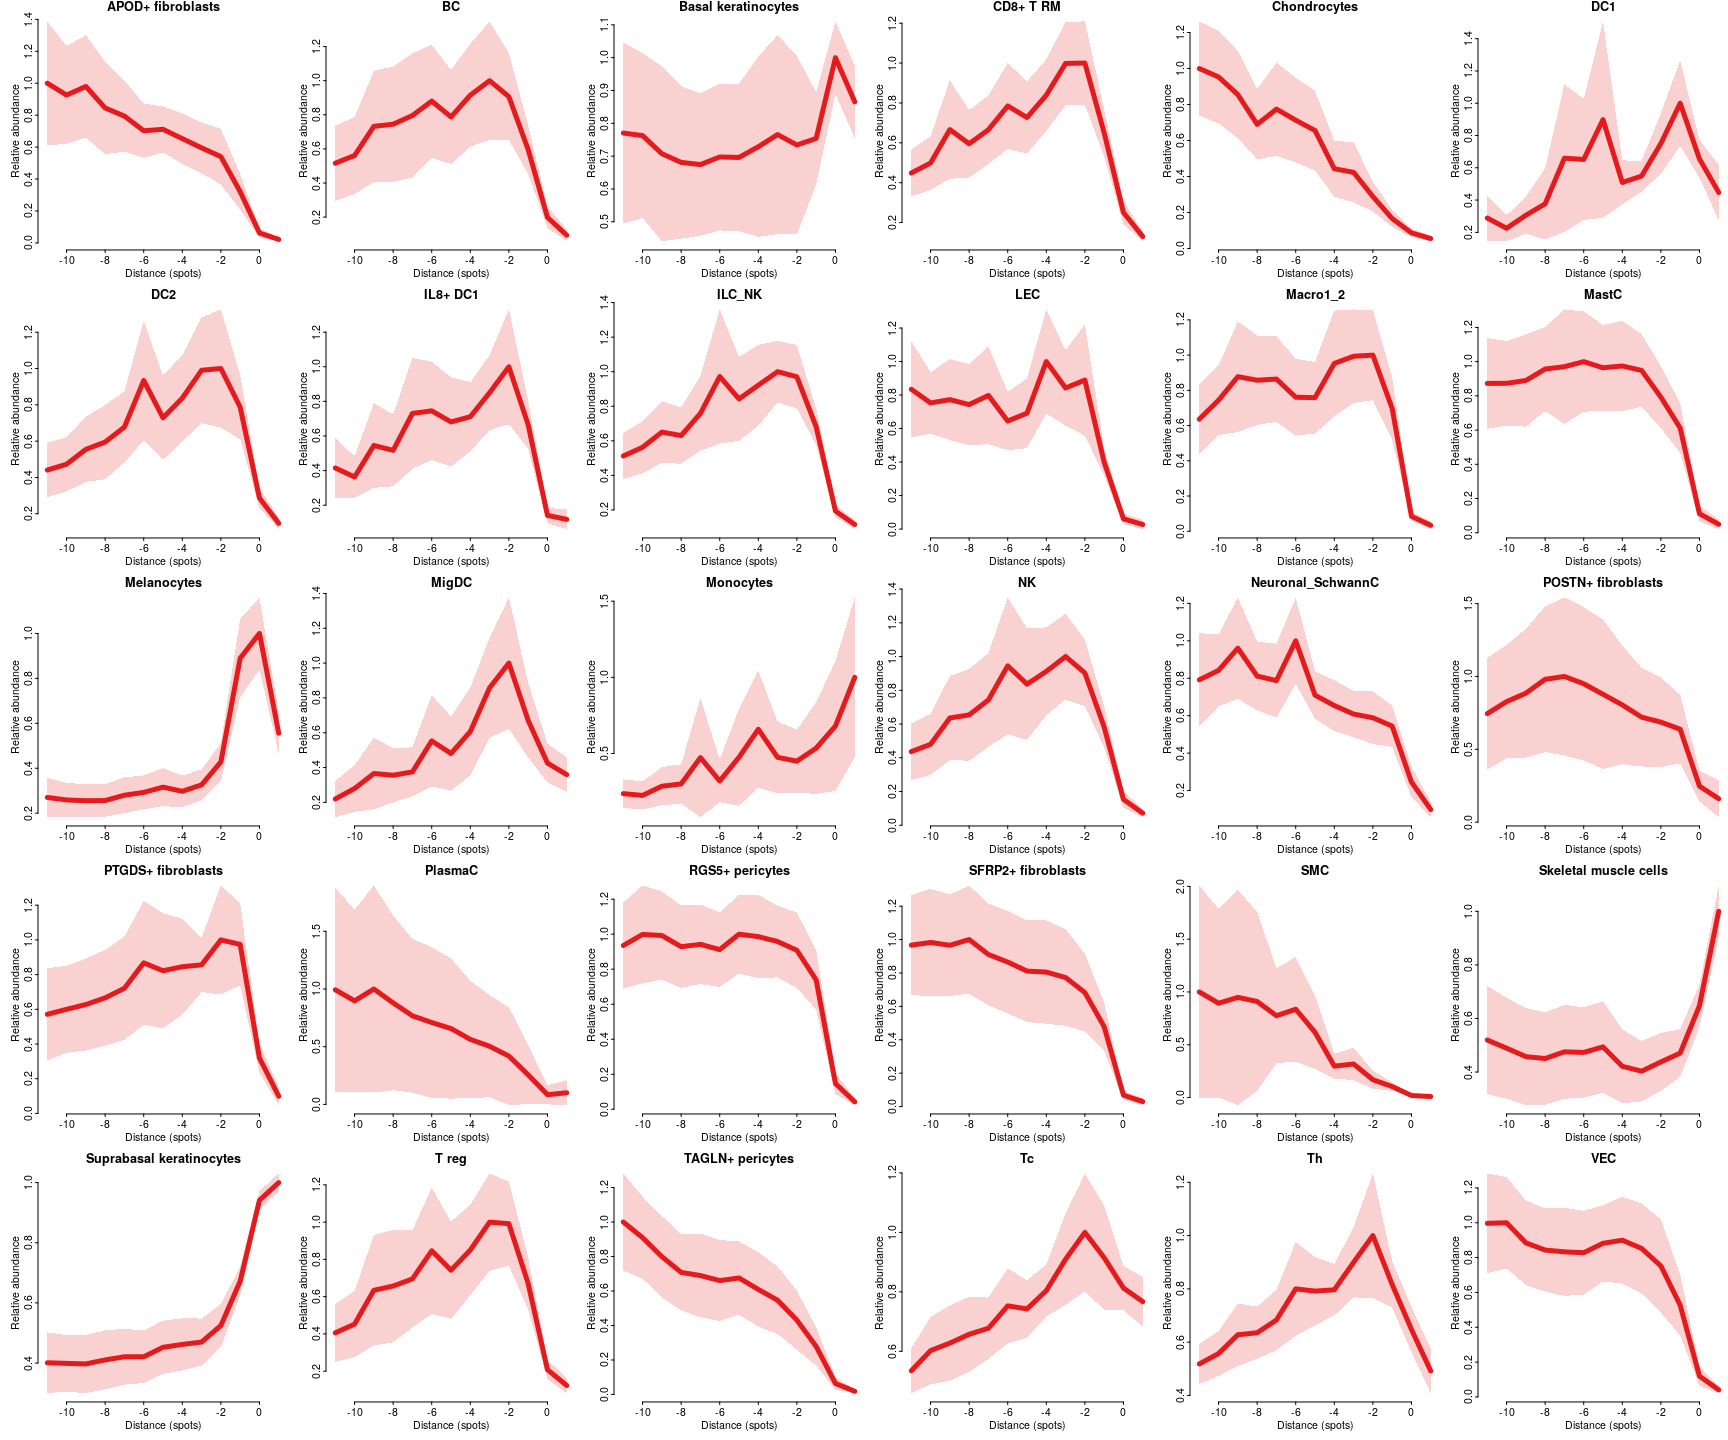
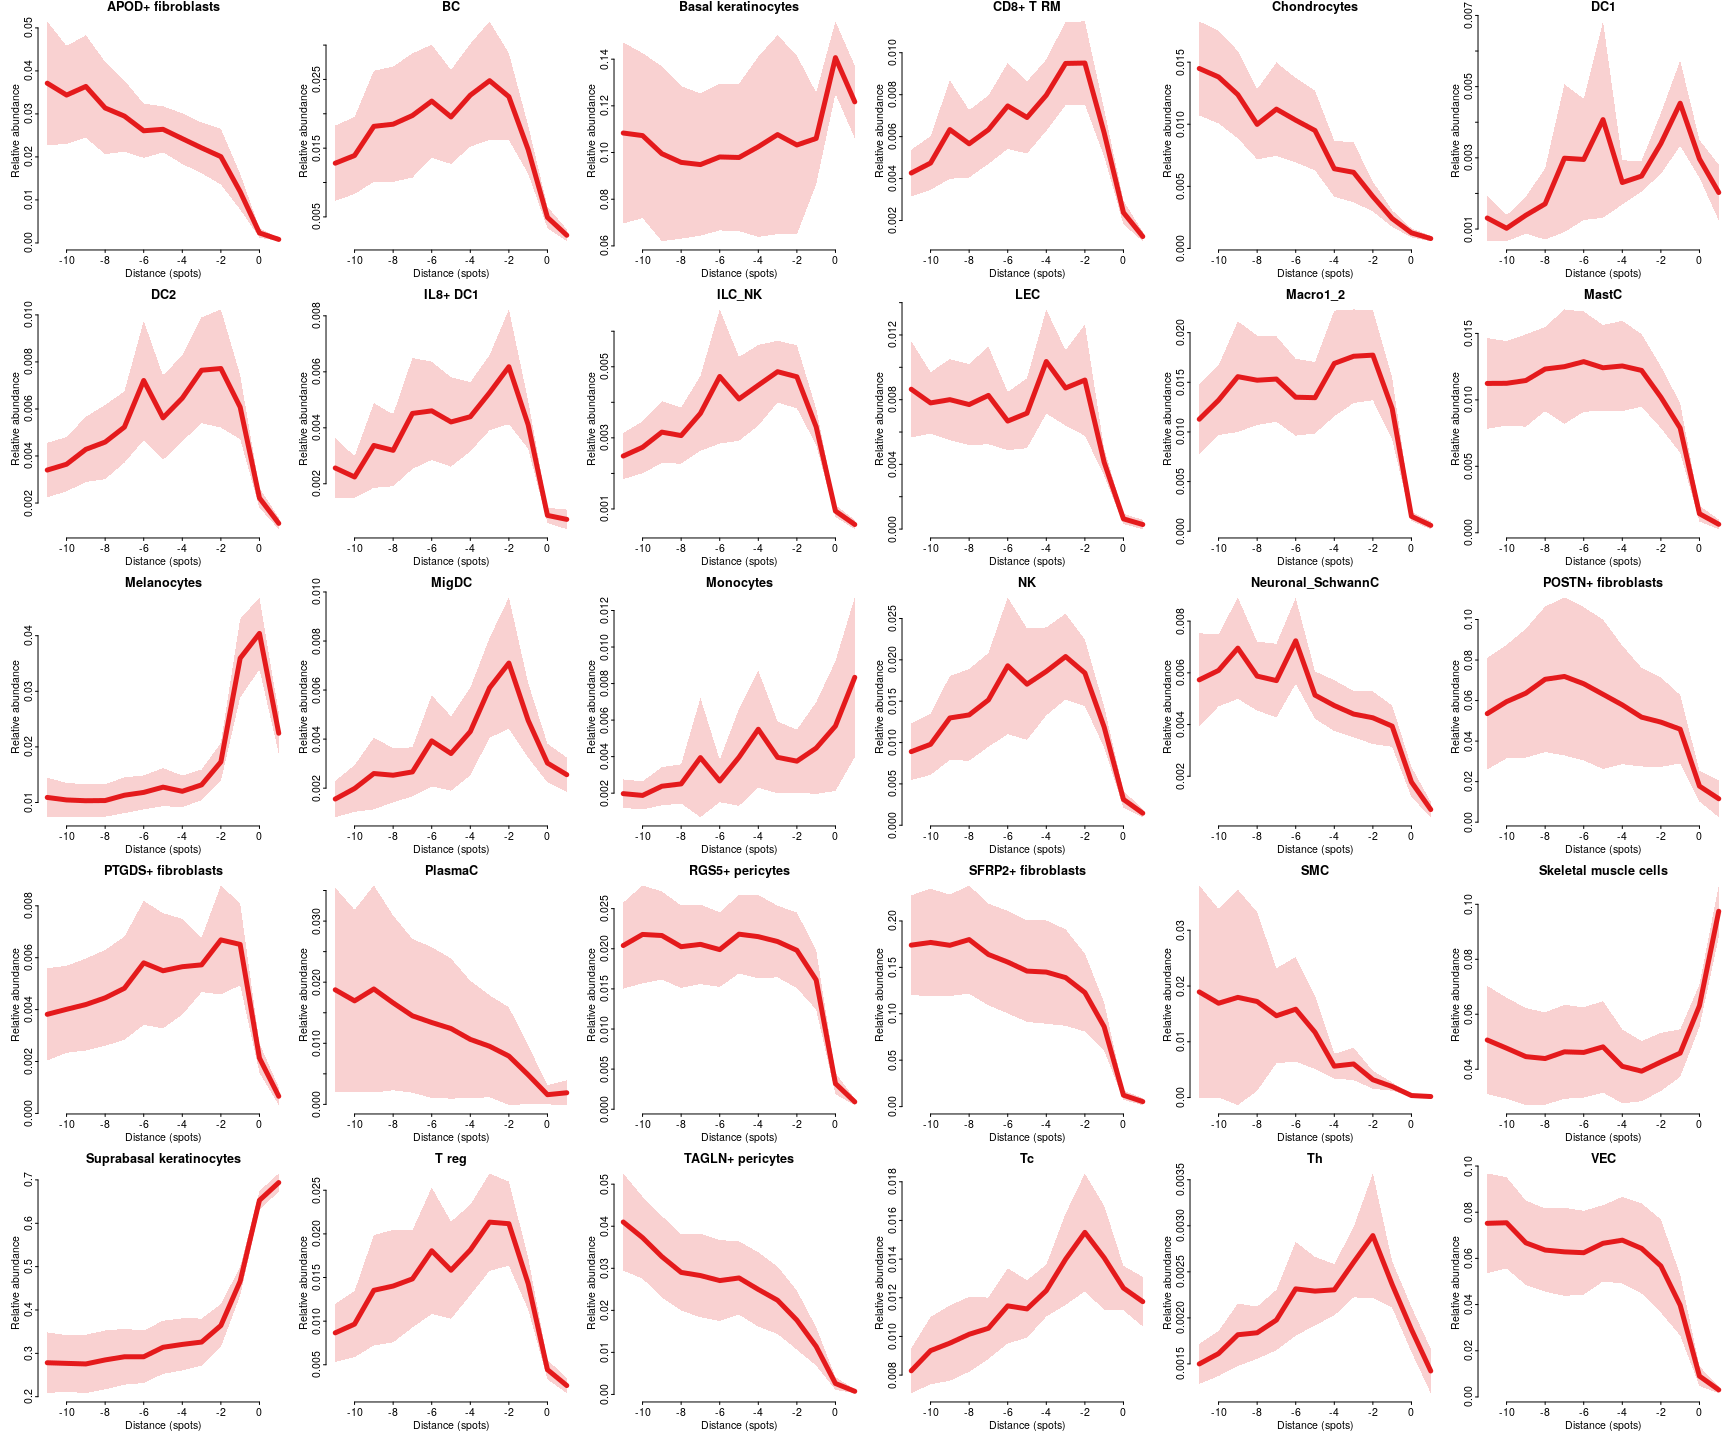
update vignette

diff --git a/vignettes/TissueInDepth.md b/vignettes/TissueInDepth.md
@@ -11,12 +11,12 @@ Tissue in depth
     - [Celltype distribution across all
       dataset](#celltype-distribution-across-all-dataset)
     - [Compare body vs face](#compare-body-vs-face)
-    - [Visualaze results](#visualaze-results)
+    - [Visualize results](#visualize-results)
   - [Gene expression](#gene-expression)
     - [Select genes to work with](#select-genes-to-work-with)
     - [Prepare summary matrix](#prepare-summary-matrix-1)
     - [Compare body vs face](#compare-body-vs-face-1)
-    - [Visualaze results](#visualaze-results-1)
+    - [Visualize results](#visualize-results-1)
 
 ``` r
 # install packages if necessary
@@ -34,9 +34,6 @@ library(Seurat)
 #> 'SeuratObject' was built under R 4.3.0 but the current version is
 #> 4.3.1; it is recomended that you reinstall 'SeuratObject' as the ABI
 #> for R may have changed
-#> 'SeuratObject' was built with package 'Matrix' 1.6.3 but the current
-#> version is 1.6.4; it is recomended that you reinstall 'SeuratObject' as
-#> the ABI for 'Matrix' may have changed
 #> 
 #> Attaching package: 'SeuratObject'
 #> The following object is masked from 'package:base':
@@ -48,7 +45,7 @@ library(Matrix)
 # Download the data
 
 We will use data from
-<https://www.ebi.ac.uk/biostudies/arrayexpress/studies/E-MTAB-13085>,
+<https://www.ebi.ac.uk/biostudies/arrayexpress/studies/E-MTAB-13084>,
 lets first load metadata:
 
 ``` r
@@ -80,7 +77,7 @@ visutils::myLoad10X_Spatial. In this case one will need to load
 cell2location predictions separately.
 
 ``` r
-# download data to to temporary location and load as Seurat obje
+# download data to to temporary location and load as Seurat object
 tmpfile = tempfile()
 vs = list()
 for(i in 1:nrow(meta)){
@@ -303,7 +300,7 @@ dfsmtx.c2l = makeDistFeatureSampleTable(dist = spots$dist2junction,
 ``` r
 par(mfrow=c(5,6),mar=c(3,3,1,0),bty='n',tcl=-0.2,mgp=c(1.3,0.3,0),oma=c(0,0,0,0))
 for(ct in celltypes$celltype)
-  plotFeatureProfiles(dfsmtx.c2l,features=ct,cols = "#E41A1C",lwd=5,main=ct,legend. = FALSE)
+  plotFeatureProfiles(dfsmtx.c2l,features=ct,cols = "#E41A1C",lwd=5,main=ct,legend. = FALSE,scaleY=FALSE)
 ```
 
 ![](TissueInDepth_files/figure-gfm/unnamed-chunk-11-1.png)<!-- -->
@@ -331,7 +328,7 @@ comparing two conditions for each celltype and each distance
 comp.c2l = testTDConditions(dfsmtx.c2l,meta$`body part`=='body',meta$`body part`=='face')
 ```
 
-### Visualaze results
+### Visualize results
 
 ``` r
 # reorder celltypes by depth of max abundance in body
@@ -362,12 +359,12 @@ for(bp in c('body','face','bcc'))
 
 ![](TissueInDepth_files/figure-gfm/unnamed-chunk-15-1.png)<!-- -->
 
-In terms of differential abundance it shows that melanocytes, and
-chondrocytes are enriched, while POSTN+ fibroblasts are depleted in face
-compared to body:
+In terms of differential abundance it shows that melanocytes, and T reg
+are enriched, while POSTN+ fibroblasts are depleted in face compared to
+body:
 
 ``` r
-celltypes=c('Melanocytes','Chondrocytes','POSTN+ fibroblasts')
+celltypes=c('Melanocytes','T reg','POSTN+ fibroblasts')
 cols = char2col(c('face','body'))
 par(mfrow=c(1,3),mar=c(3,3,1,0),bty='n',tcl=-0.2,mgp=c(1.3,0.3,0),oma=c(0,0,0,14))
 for(ct in celltypes)
@@ -447,7 +444,7 @@ table(apply(comp.ge$sgn,2,sum))
 #> 1566   22   11   14    6    1    2   10   12    8    7    7    4   12
 ```
 
-### Visualaze results
+### Visualize results
 
 Now we can plot gene expression as heatmaps. We will make fdr cutoff
 stronger to highlight more significant genes. There is not need to take

diff --git a/vignettes/SpotMerge.md b/vignettes/SpotMerge.md
@@ -1,7 +1,7 @@
 Spots merging
 ================
 
-- [Intoruction](#intoruction)
+- [Introduction](#introduction)
 - [Load libraries](#load-libraries)
 - [Load data](#load-data)
 - [Check data](#check-data)
@@ -11,7 +11,7 @@ Spots merging
   - [Define merging groups](#define-merging-groups)
   - [Merge spots](#merge-spots)
 
-# Intoruction
+# Introduction
 
 This document demonstrates how to group and merge visium spots with low
 coverage using visutils. The spots are grouped into coarser mesh by
@@ -36,9 +36,6 @@ library(Seurat)
 #> 'SeuratObject' was built under R 4.3.0 but the current version is
 #> 4.3.1; it is recomended that you reinstall 'SeuratObject' as the ABI
 #> for R may have changed
-#> 'SeuratObject' was built with package 'Matrix' 1.6.3 but the current
-#> version is 1.6.4; it is recomended that you reinstall 'SeuratObject' as
-#> the ABI for 'Matrix' may have changed
 #> 
 #> Attaching package: 'SeuratObject'
 #> The following object is masked from 'package:base':
